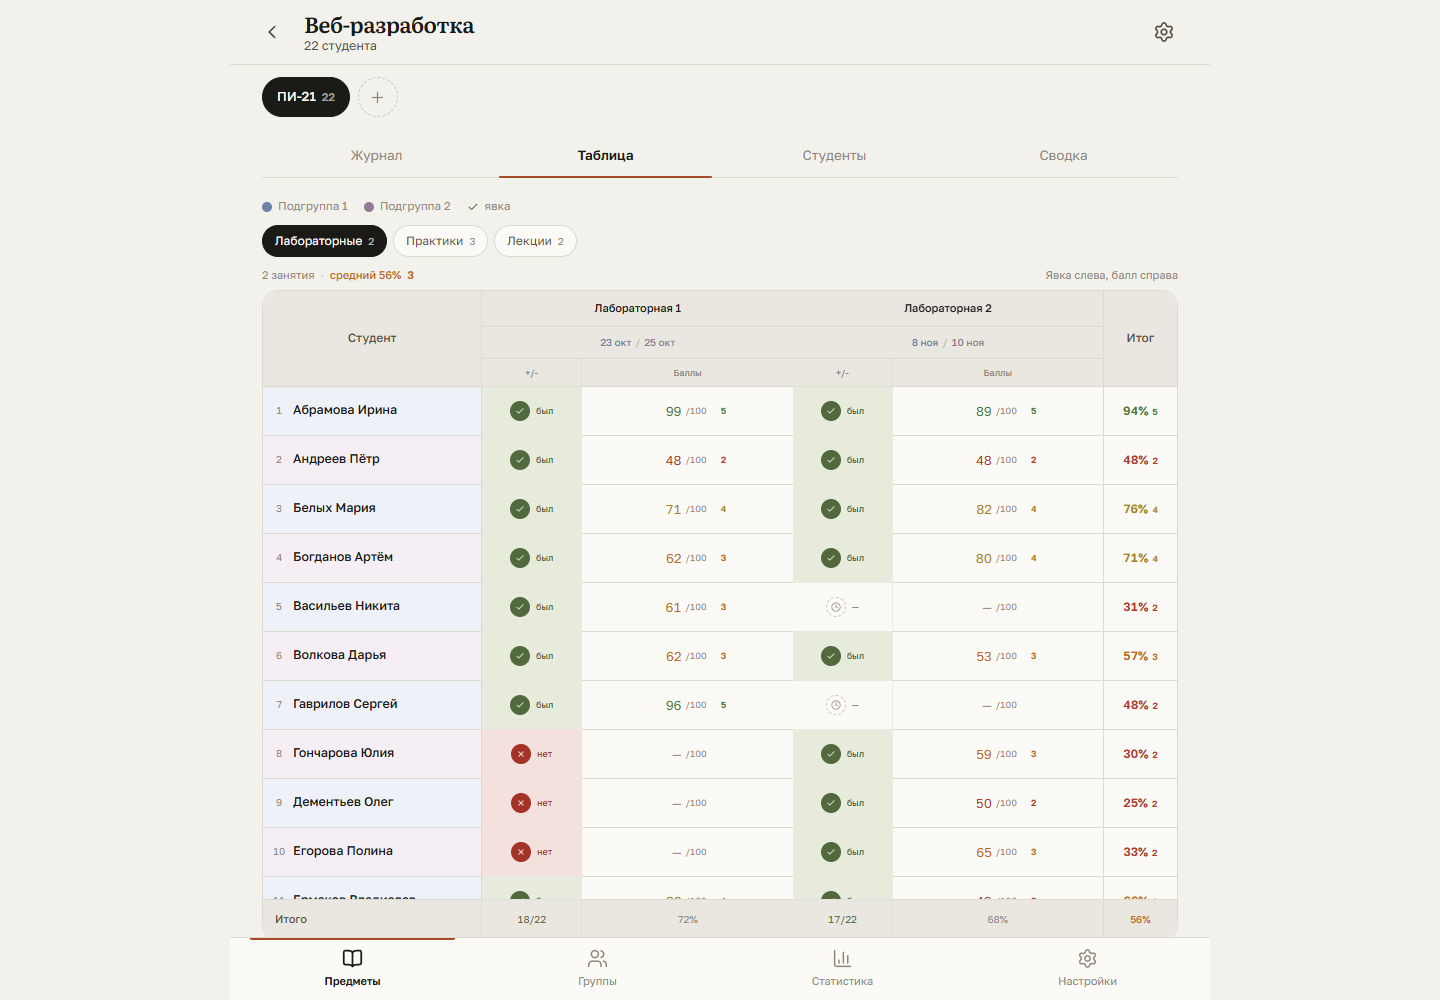
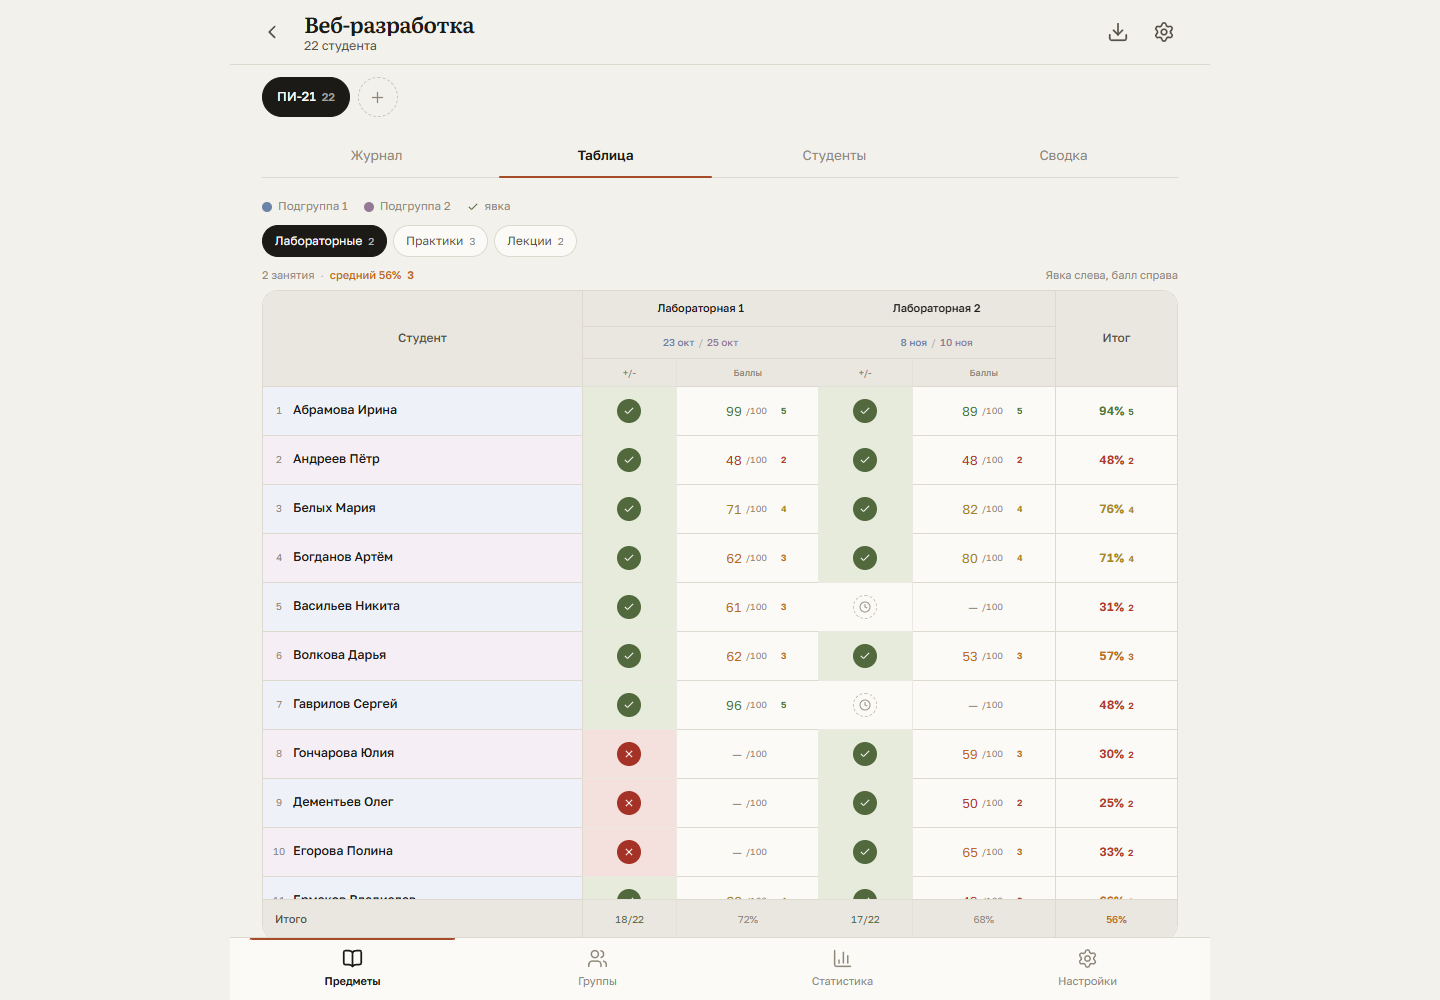
fix: make journal table scroll horizontally with readable min widths

diff --git a/src/components/JournalTable.tsx b/src/components/JournalTable.tsx
@@ -264,22 +264,8 @@ export function JournalTable({
         <span className="shrink-0 sm:hidden">вбок →</span>
       </div>
 
-      <div className="mt-1.5 max-h-[calc(100dvh-370px)] overflow-auto rounded-card border border-line bg-surface lg:max-h-[calc(100dvh-350px)]">
-        <table className="w-full min-w-[640px] table-fixed border-separate border-spacing-0 text-[12px]">
-          <colgroup>
-            <col style={{ width: '24%' }} />
-            {current.activities.map((activity) =>
-              lecture ? (
-                <col key={`col-${activity.activity.id}`} style={{ width: `${68 / current.activities.length}%` }} />
-              ) : (
-                <Fragment key={`cols-${activity.activity.id}`}>
-                  <col style={{ width: `${(68 / current.activities.length) * 0.32}%` }} />
-                  <col style={{ width: `${(68 / current.activities.length) * 0.68}%` }} />
-                </Fragment>
-              ),
-            )}
-            <col style={{ width: '8%' }} />
-          </colgroup>
+      <div className="mt-1.5 max-h-[calc(100dvh-370px)] overflow-auto overscroll-x-contain rounded-card border border-line bg-surface lg:max-h-[calc(100dvh-350px)]">
+        <table className="w-max min-w-full table-auto border-separate border-spacing-0 text-[12px]">
           <thead>
             <tr>
               <th
@@ -293,7 +279,7 @@ export function JournalTable({
                   key={activity.activity.id}
                   colSpan={activityWidth}
                   title={activity.activity.title}
-                  className={`sticky top-0 z-20 h-9 border-b border-line bg-elevated px-2 py-1 text-center text-[11px] font-medium text-ink ${
+                  className={`sticky top-0 z-20 h-9 min-w-[128px] border-b border-line bg-elevated px-2 py-1 text-center text-[11px] font-medium text-ink ${
                     activityIndex === current.activities.length - 1 ? 'border-r' : ''
                   }`}
                 >
@@ -319,7 +305,7 @@ export function JournalTable({
                   <th
                     key={`dates-${activity.activity.id}`}
                     colSpan={activityWidth}
-                    className={`sticky z-20 h-8 border-b border-line bg-elevated px-1 py-0 text-center align-middle font-normal ${
+                    className={`sticky z-20 h-8 min-w-[128px] border-b border-line bg-elevated px-1 py-0 text-center align-middle font-normal ${
                       activityIndex === current.activities.length - 1 ? 'border-r' : ''
                     }`}
                     style={{ top: `${dateRowOffset}px` }}
@@ -348,7 +334,7 @@ export function JournalTable({
                 const cells = lecture ? (
                   <th
                     key={`label-${activity.activity.id}`}
-                    className={`sticky z-20 h-7 border-b border-line bg-elevated px-1 text-center text-[9px] font-medium uppercase tracking-wide text-faint ${
+                    className={`sticky z-20 h-7 min-w-[96px] border-b border-line bg-elevated px-1 text-center text-[9px] font-medium uppercase tracking-wide text-faint ${
                       last ? 'border-r' : ''
                     }`}
                     style={{ top: `${dateRowOffset + dateRowHeight}px` }}
@@ -364,7 +350,7 @@ export function JournalTable({
                       +/-
                     </th>
                     <th
-                      className={`sticky z-20 h-7 w-16 min-w-16 border-b border-line bg-elevated px-1 text-center text-[9px] font-medium text-faint ${
+                      className={`sticky z-20 h-7 w-16 min-w-[84px] border-b border-line bg-elevated px-1 text-center text-[9px] font-medium text-faint ${
                         last ? 'border-r' : ''
                       }`}
                       style={{ top: `${dateRowOffset + dateRowHeight}px` }}
@@ -412,7 +398,7 @@ export function JournalTable({
                     return (
                       <Fragment key={`${activity.activity.id}-${row.student.id}`}>
                         <td
-                          className={`h-12 border-b border-line p-0 ${
+                          className={`h-12 min-w-[56px] border-b border-line p-0 ${
                             lecture ? (last ? 'border-r' : '') : 'border-r border-line/50'
                           }`}
                         >
@@ -428,7 +414,7 @@ export function JournalTable({
                           )}
                         </td>
                         {lecture ? null : (
-                          <td className={`h-12 border-b border-line p-0 ${last ? 'border-r' : ''}`}>
+                          <td className={`h-12 min-w-[84px] border-b border-line p-0 ${last ? 'border-r' : ''}`}>
                             {column ? (
                               <ScoreCell
                                 snapshot={snapshot}
@@ -498,7 +484,7 @@ export function JournalTable({
                 return (
                   <Fragment key={`footer-${activity.activity.id}`}>
                     <td
-                      className="sticky bottom-0 z-10 h-10 border-t border-r border-line/50 bg-elevated px-1 text-center"
+                      className="sticky bottom-0 z-10 h-10 min-w-[56px] border-t border-r border-line/50 bg-elevated px-1 text-center"
                     >
                       <span className="tnum text-[10px] text-moss">
                         {present}/{rows.length}
@@ -506,7 +492,7 @@ export function JournalTable({
                     </td>
                     {lecture ? null : (
                       <td
-                        className={`sticky bottom-0 z-10 h-10 border-t border-line bg-elevated px-1 text-center ${
+                        className={`sticky bottom-0 z-10 h-10 min-w-[84px] border-t border-line bg-elevated px-1 text-center ${
                           last ? 'border-r' : ''
                         }`}
                       >
@@ -571,7 +557,7 @@ function AttendanceCell({
       }`}
     >
       <span
-        className={`flex h-5 w-5 items-center justify-center rounded-full ${
+        className={`flex h-6 w-6 items-center justify-center rounded-full ${
           present === true
             ? 'bg-moss text-surface'
             : present === false
@@ -581,11 +567,8 @@ function AttendanceCell({
       >
         <Icon
           name={present === true ? 'check' : present === false ? 'close' : 'clock'}
-          size={10}
+          size={12}
         />
-      </span>
-      <span className="text-[9px] font-medium">
-        {present === true ? 'был' : present === false ? 'нет' : '—'}
       </span>
     </button>
   );

diff --git a/README.md b/README.md
@@ -121,8 +121,9 @@ npm run preview  # локальный просмотр production-сборки
 
 - строки — студенты с номерами; подгруппы заметны цветом клетки и строки;
 - колонка занятия: название, под ним даты подгрупп через «/», ниже две колонки — «+/-» и «Баллы»;
-- явка — цветная клетка с плюсом или минусом, балл — значение, максимум и цветная оценка;
+- явка — цветная клетка с галочкой или крестом (без подписей), балл — значение, максимум и цветная оценка;
 - липкие шапка, колонка имён и строка итогов; на телефоне таблица прокручивается вбок;
+- ширина колонок адаптивная с минимумом: при большом числе занятий таблица расширяется и прокручивается, клетки не сжимаются и не накладываются;
 - над таблицей — число занятий, средний процент и оценка по выбранному виду;
 - снизу — посещаемость и средний процент по колонкам, справа — итог по виду занятий.
 

diff --git a/docs/ARCHITECTURE.md b/docs/ARCHITECTURE.md
@@ -426,7 +426,7 @@ completion = выставленные / ожидаемые × 100
 | 1.1 | группы как сущность (`groupMembers`), зачисление группы в несколько предметов, шкала 2–5 с цветом, импорт студентов v2 | **готово** |
 | 2 | Supabase: Edge Function «Яндекс ID», грязные сторы, pull/push, RPC `sync_upsert`, статус синка | **готово** (нужны ключи проекта) |
 | 3 | Google Drive через `drivestash`: подключение, дебаунс-push, восстановление, статусы | **готово** (нужен `VITE_GOOGLE_CLIENT_ID`) |
-| 4 | Экспорт `.xlsx`, keep-alive workflow, полировка UI, e2e-проверки | **готово**: XLSX-генератор без зависимостей, e2e 54 проверки |
+| 4 | Экспорт `.xlsx`, keep-alive workflow, полировка UI, e2e-проверки | **готово**: XLSX-генератор без зависимостей, e2e 57 проверок |
 
 Подключение облака описано в [`docs/SETUP_CLOUD.md`](SETUP_CLOUD.md).
 
